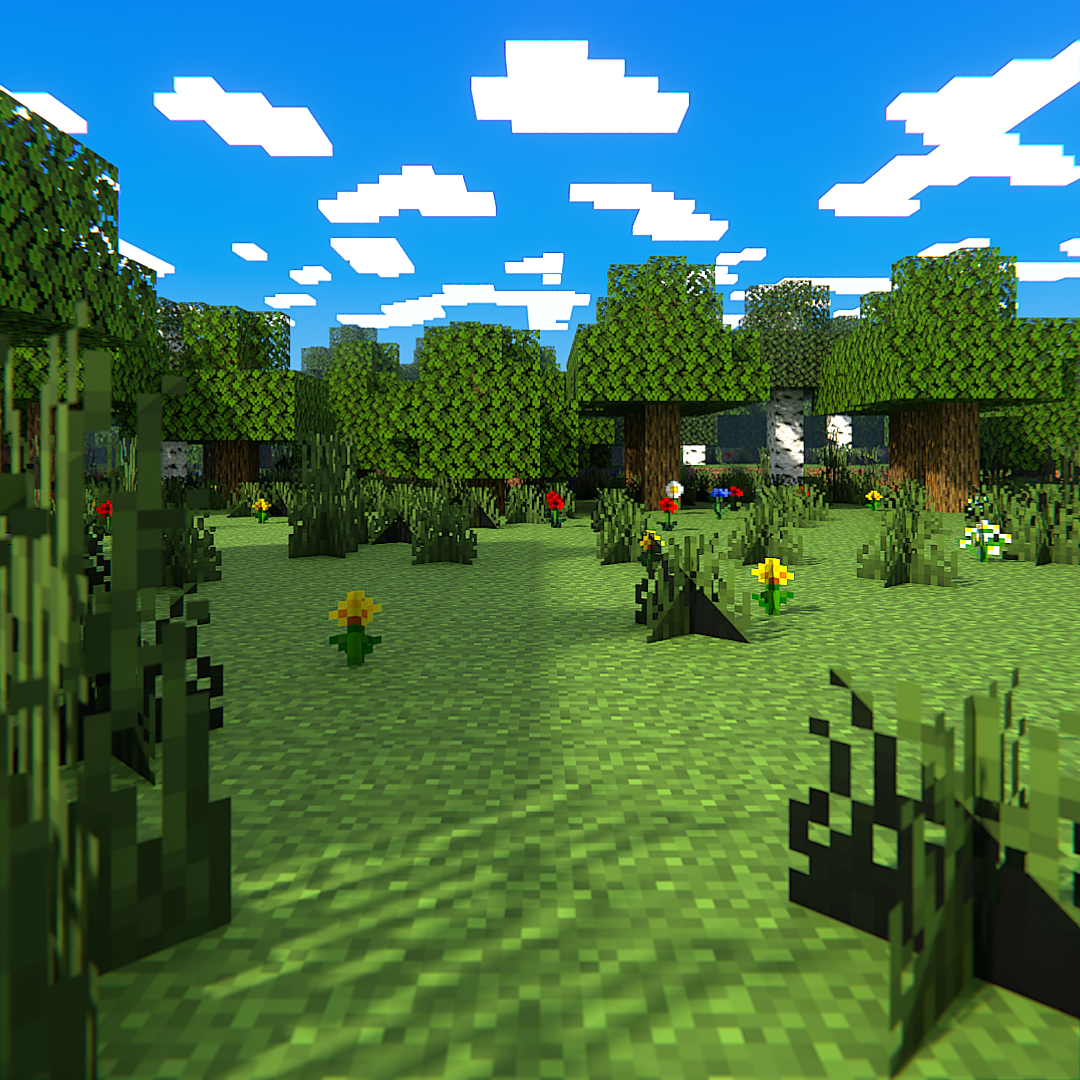
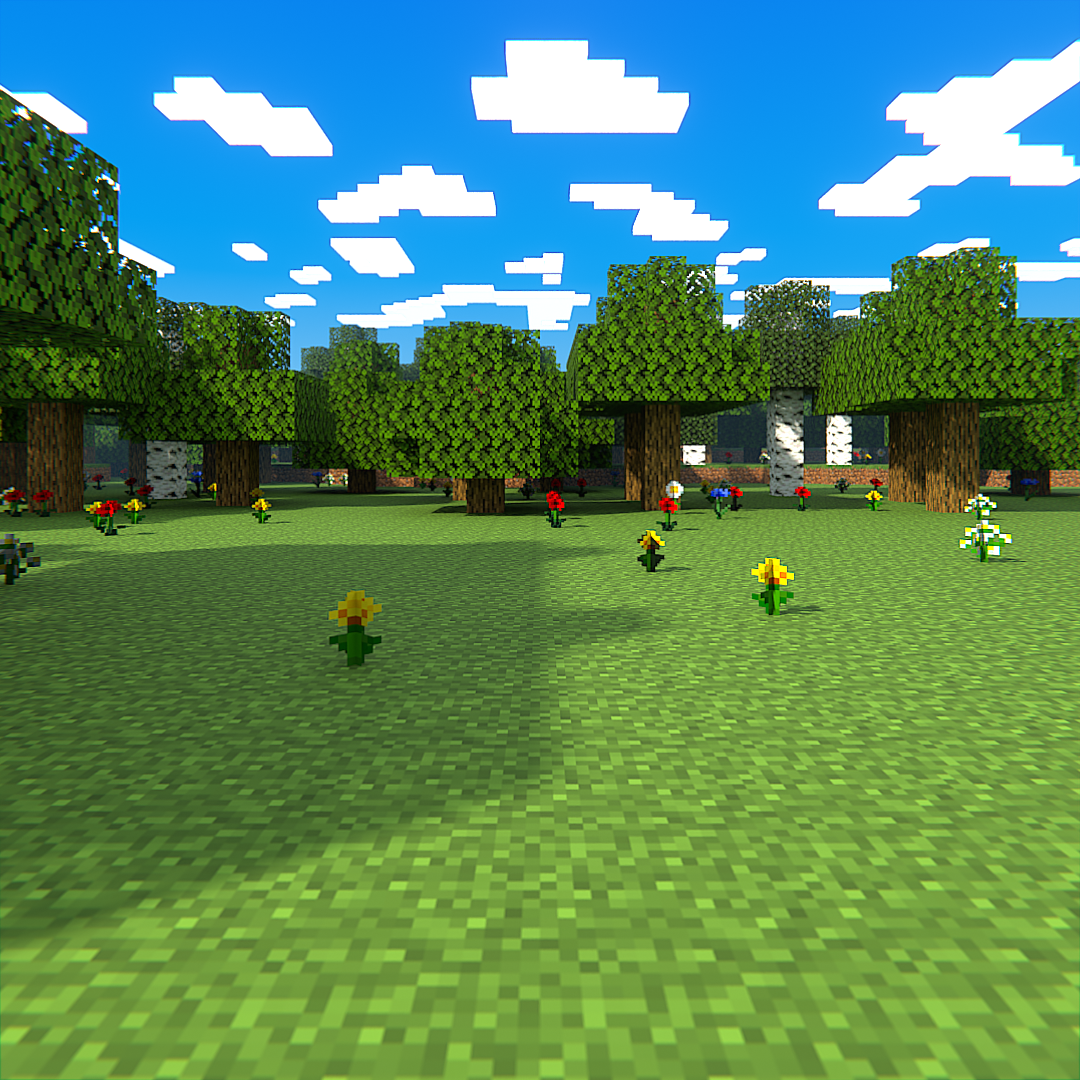
Remove grass tufts from the field background
Claude-Session: https://claude.ai/code/session_017TMo4uidPaFooHDsMAonoH

Changed region(s): [[0.0, 0.275, 1.0, 1.0], [0.1528, 0.3361, 0.1833, 0.3667]]

diff --git a/README.md b/README.md
@@ -101,7 +101,7 @@ node tools/render.js                     # PNG ×2 (или: node tools/render.js
 
 | Файл | Кадр |
 |---|---|
-| `backgrounds/field/field.png` | поле: трава на переднем плане, поле, сзади деревья |
+| `backgrounds/field/field.png` | чистое поле с цветами, сзади деревья |
 | `backgrounds/field/portal.png` | портал в Незер посередине того же поля; внутри рамки пусто |
 
 ### Как пересобрать
